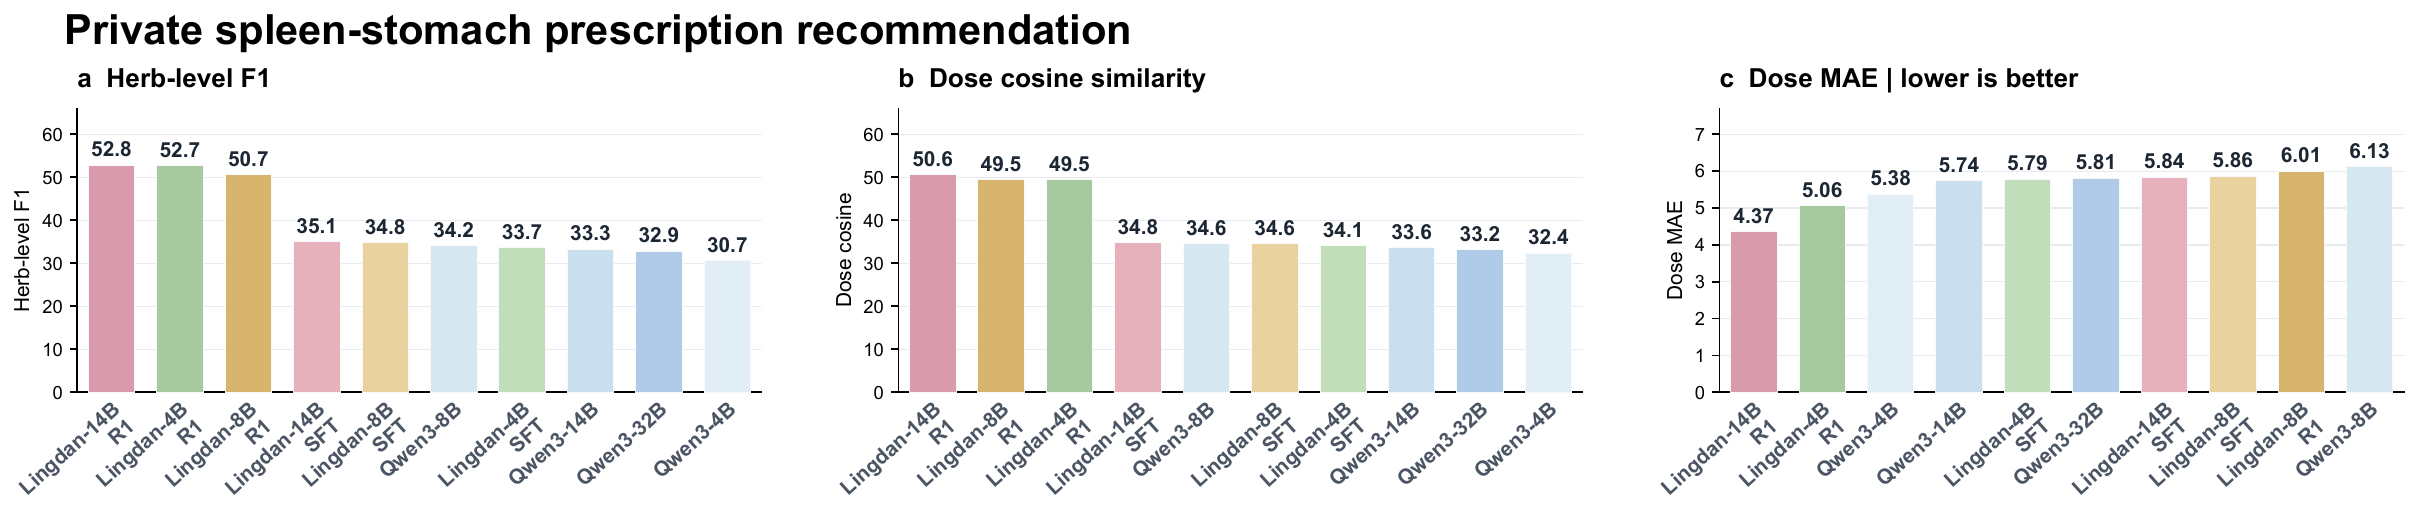
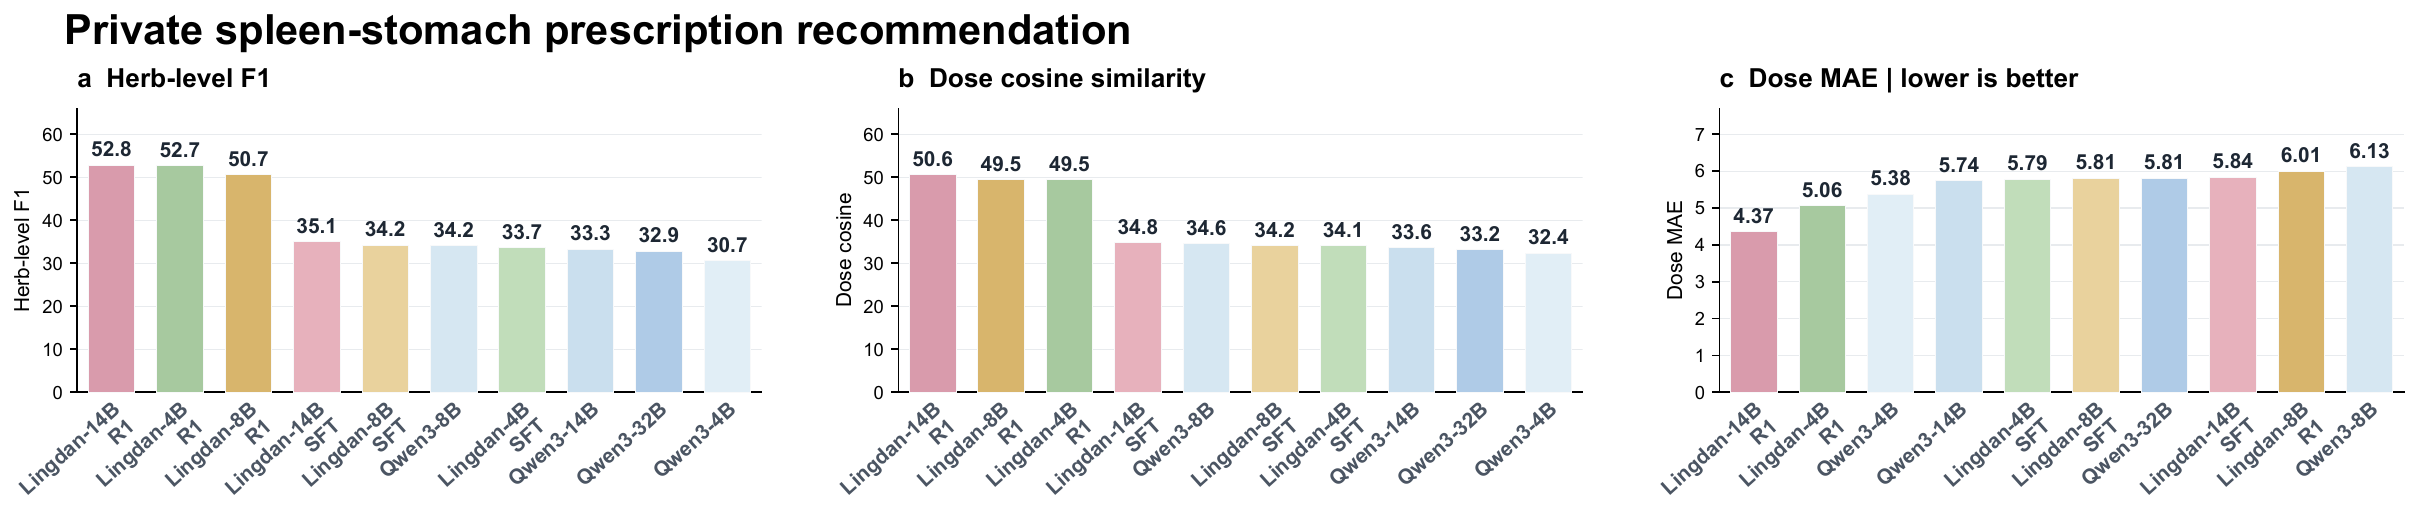
1

diff --git a/README.md b/README.md
@@ -89,7 +89,7 @@ The Overall Score is computed as the unweighted mean of 16 primary metrics. It i
 
 Within the primary 14B model trajectory, prescription-centered GRPO improves the Overall Score from 65.3 to 67.1 on the full LingLan benchmark and from 41.3 to 45.3 on LingLan-Hard. Prescription-generation F1 increases from 30.9 to 37.0 on the full benchmark and from 17.4 to 24.9 on the challenging subset.
 
-Prescription-generation performance improves consistently across the 4B, 8B, and 14B model scales. In contrast, changes in aggregate benchmark performance depend on model scale and task composition. We therefore regard prescription-related capabilities as the most direct and consistent area of improvement attributable to GRPO.
+Overall Score and prescription-generation F1 improve from SFT to R1 across the 4B, 8B, and 14B model scales on both LingLan and LingLan-Hard. At 8B, Overall Score increases from 63.0 to 63.7 on the full benchmark and from 36.6 to 39.1 on LingLan-Hard, while prescription-generation F1 increases from 29.8 to 34.5 and from 16.1 to 22.6, respectively. The larger gains in prescription generation indicate that the most pronounced cross-scale improvement remains concentrated in the task directly represented by the GRPO reward, while individual knowledge, extraction, reasoning, and dosage metrics do not improve uniformly.
 
 <p align="center">
   <img width="100%" src="https://raw.githubusercontent.com/TCMAI-BJTU/Lingdan-V2/main/assets/training_stage_performance.png" alt="Performance changes from SFT to R1 across Lingdan-V2 model scales" />
